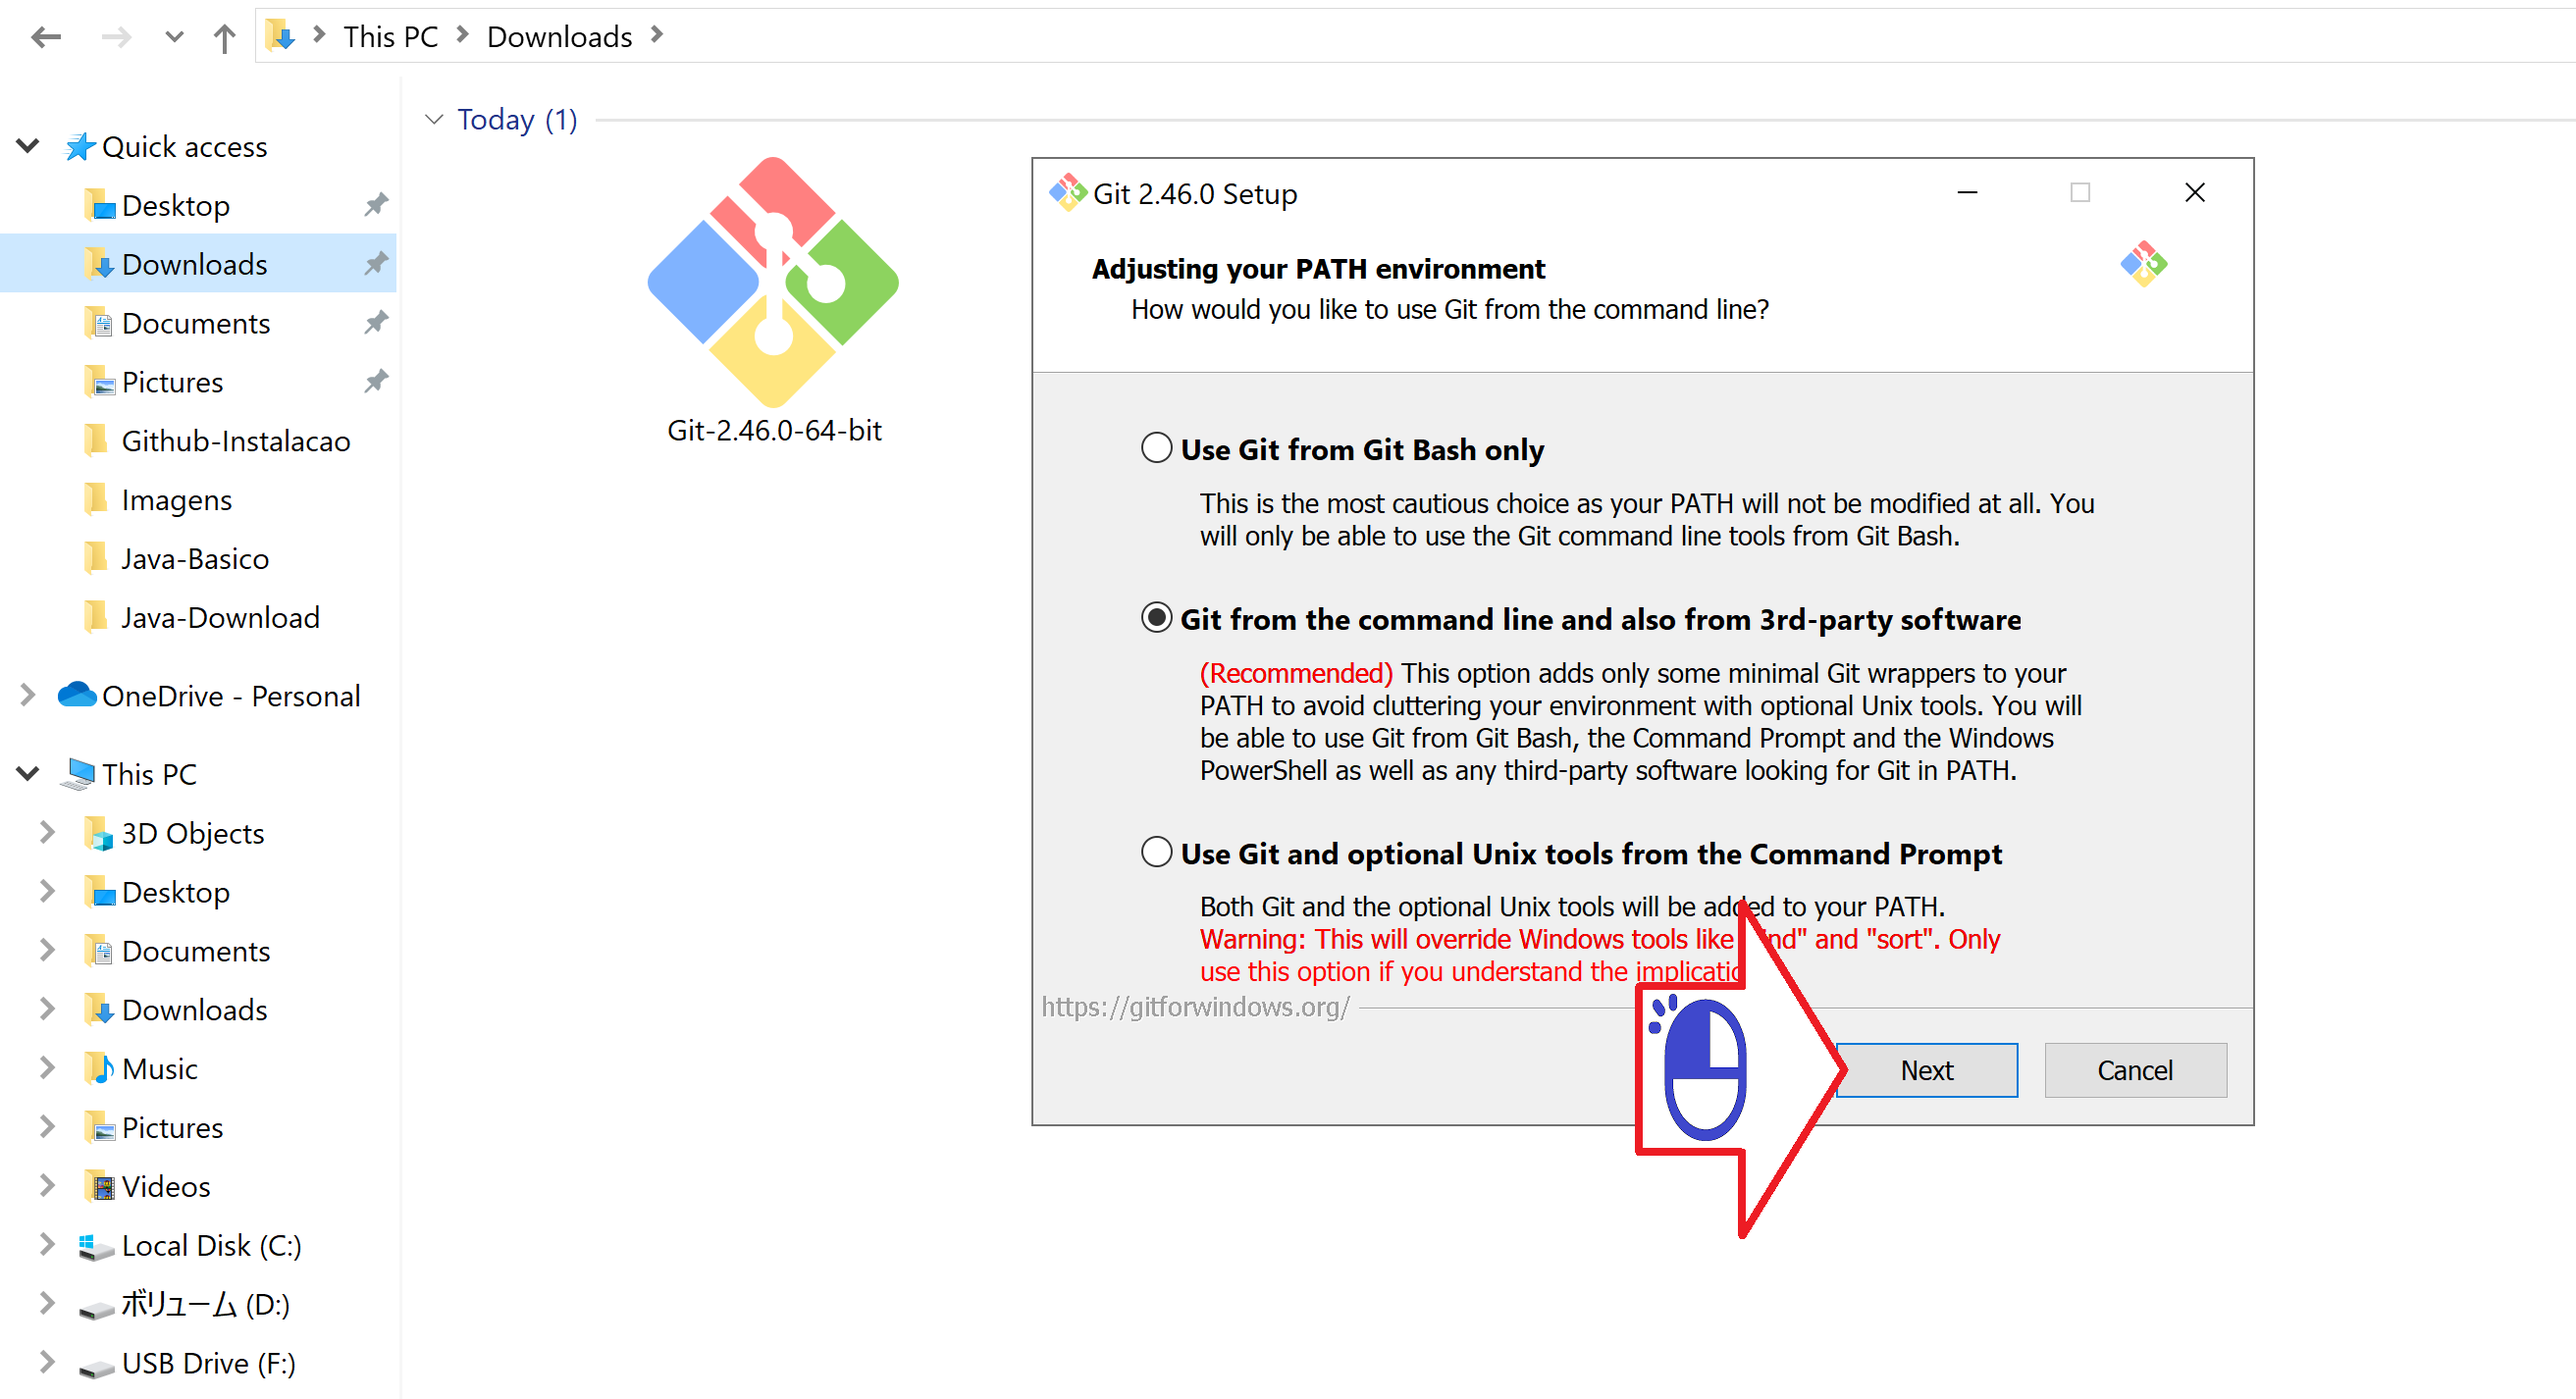
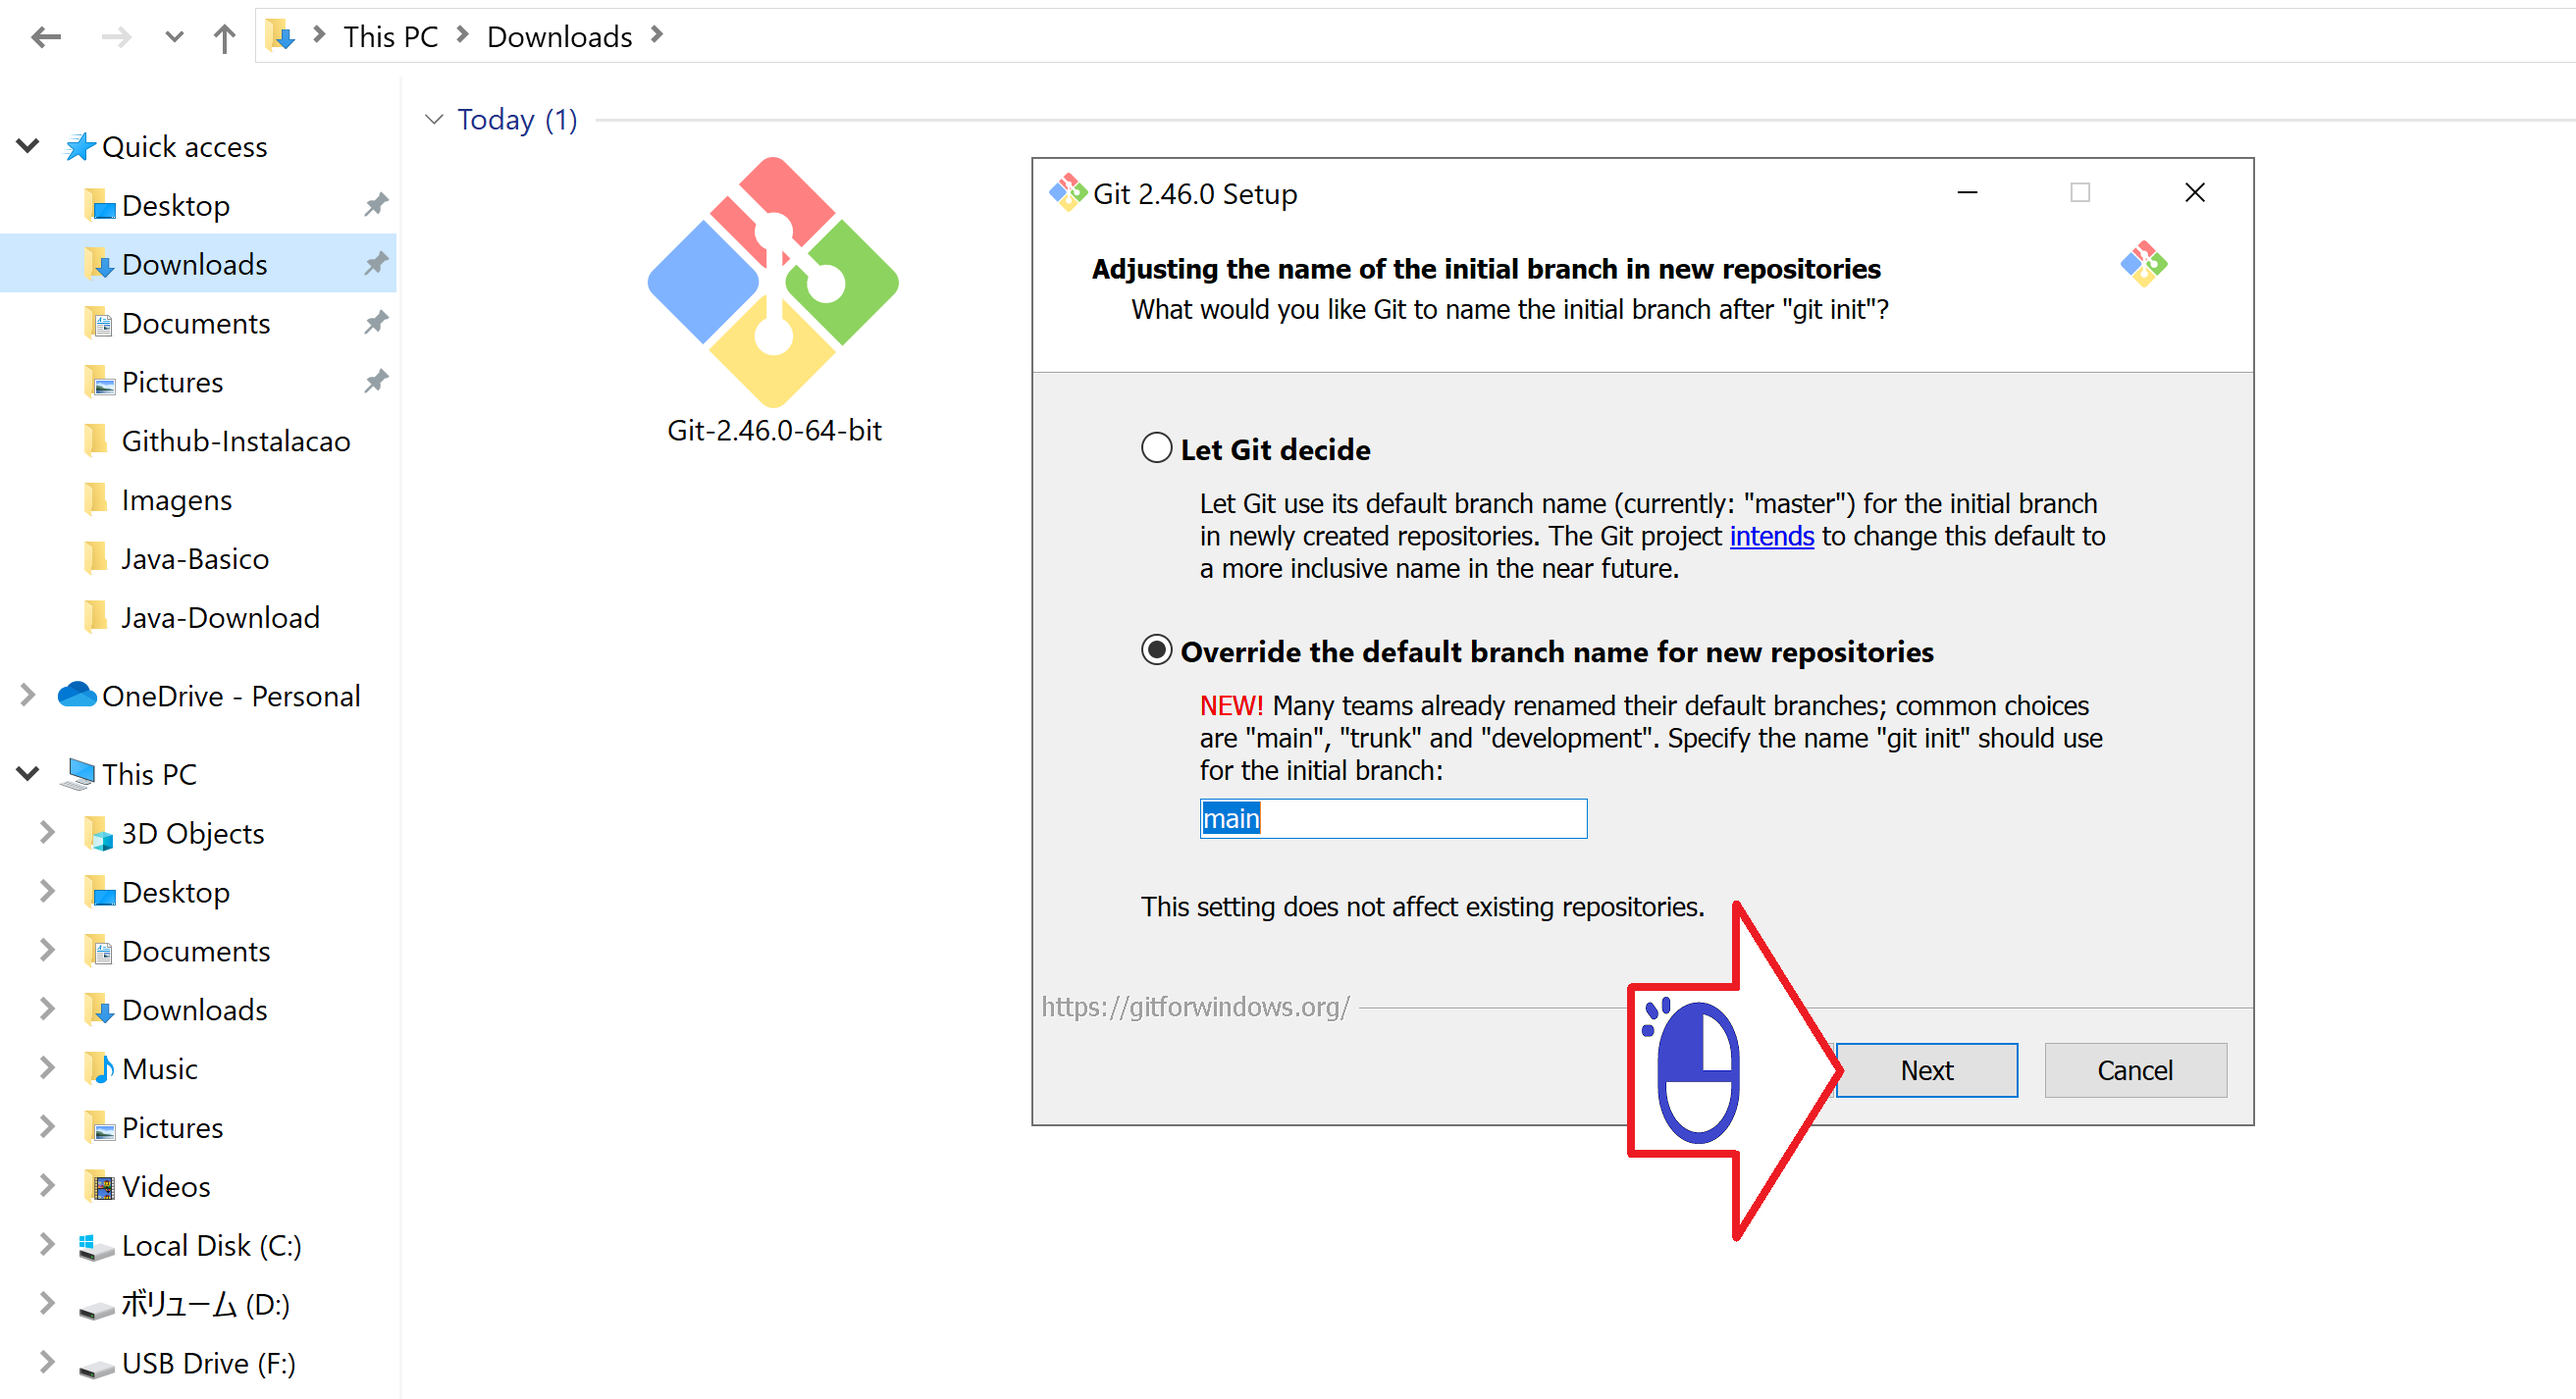
Git botao de instalacao direito

Changed region(s): [[0.4373, 0.3086, 0.8122, 0.8948], [0.4373, 0.1851, 0.7497, 0.2468]]

diff --git a/README-Windows-Git-Instalacao-jp.md b/README-Windows-Git-Instalacao-jp.md
@@ -2,13 +2,13 @@
 マイクロソフト ウィンドウズへのローカル バージョン管理システムのインストール
 
 <div align="center">
-絵 01 - インストーラーをダブルクリックします
+絵 01 - 右クリックします
 </div>
 
 ![](Imagens/Windows-Git-Instalacao-Img01.png)
 
 <div align="center">
-絵 02 - 「次へ」をクリックします
+絵 02 - 「Run as Administrator」をクリックします
 </div>
 
 ![](Imagens/Windows-Git-Instalacao-Img02.png)
@@ -32,13 +32,13 @@
 ![](Imagens/Windows-Git-Instalacao-Img05.png)
 
 <div align="center">
-絵 06 - Visual Studio Code を推奨し「次へ」をクリックします
+絵 06 - 「次へ」をクリックします
 </div>
 
 ![](Imagens/Windows-Git-Instalacao-Img06.png)
 
 <div align="center">
-絵 07 - 「次へ」をクリックします
+絵 07 - Visual Studio Code を推奨し「次へ」をクリックします
 </div>
 
 ![](Imagens/Windows-Git-Instalacao-Img07.png)
@@ -98,13 +98,19 @@
 ![](Imagens/Windows-Git-Instalacao-Img16.png)
 
 <div align="center">
-絵 17 - 待って...
+絵 17 - 「次へ」をクリックします
 </div>
 
 ![](Imagens/Windows-Git-Instalacao-Img17.png)
 
 <div align="center">
-絵 18 - 「完了」をクリックします
+絵 18 - 待って...
 </div>
 
 ![](Imagens/Windows-Git-Instalacao-Img18.png)
+
+<div align="center">
+絵 19 - 「完了」をクリックします
+</div>
+
+![](Imagens/Windows-Git-Instalacao-Img19.png)

diff --git a/README-Windows-Git-Instalacao-br-pt.md b/README-Windows-Git-Instalacao-br-pt.md
@@ -2,13 +2,13 @@
 Instalacao do Sistema de versionamento local no Windows
 
 <div align="center">
-Figura 01 - Duplo clique no instalador
+Figura 01 - Clique com o botão direito
 </div>
 
 ![](Imagens/Windows-Git-Instalacao-Img01.png)
 
 <div align="center">
-Figura 02 - Clique next
+Figura 02 - Clique em Run as Administrator
 </div>
 
 ![](Imagens/Windows-Git-Instalacao-Img02.png)
@@ -32,13 +32,13 @@ Figura 05 - Clique next
 ![](Imagens/Windows-Git-Instalacao-Img05.png)
 
 <div align="center">
-Figura 06 - Recomendo o Visual Studio Code e Clique next
+Figura 06 - Clique next
 </div>
 
 ![](Imagens/Windows-Git-Instalacao-Img06.png)
 
 <div align="center">
-Figura 07 - Clique next
+Figura 07 - Recomendo o Visual Studio Code e Clique next
 </div>
 
 ![](Imagens/Windows-Git-Instalacao-Img07.png)
@@ -98,13 +98,19 @@ Figura 16 - Clique next
 ![](Imagens/Windows-Git-Instalacao-Img16.png)
 
 <div align="center">
-Figura 17 - Aguarde...
+Figura 17 - Clique next
 </div>
 
 ![](Imagens/Windows-Git-Instalacao-Img17.png)
 
 <div align="center">
-Figura 18 - Clique Finish
+Figura 18 - Aguarde...
 </div>
 
 ![](Imagens/Windows-Git-Instalacao-Img18.png)
+
+<div align="center">
+Figura 19 - Clique Finish
+</div>
+
+![](Imagens/Windows-Git-Instalacao-Img19.png)
